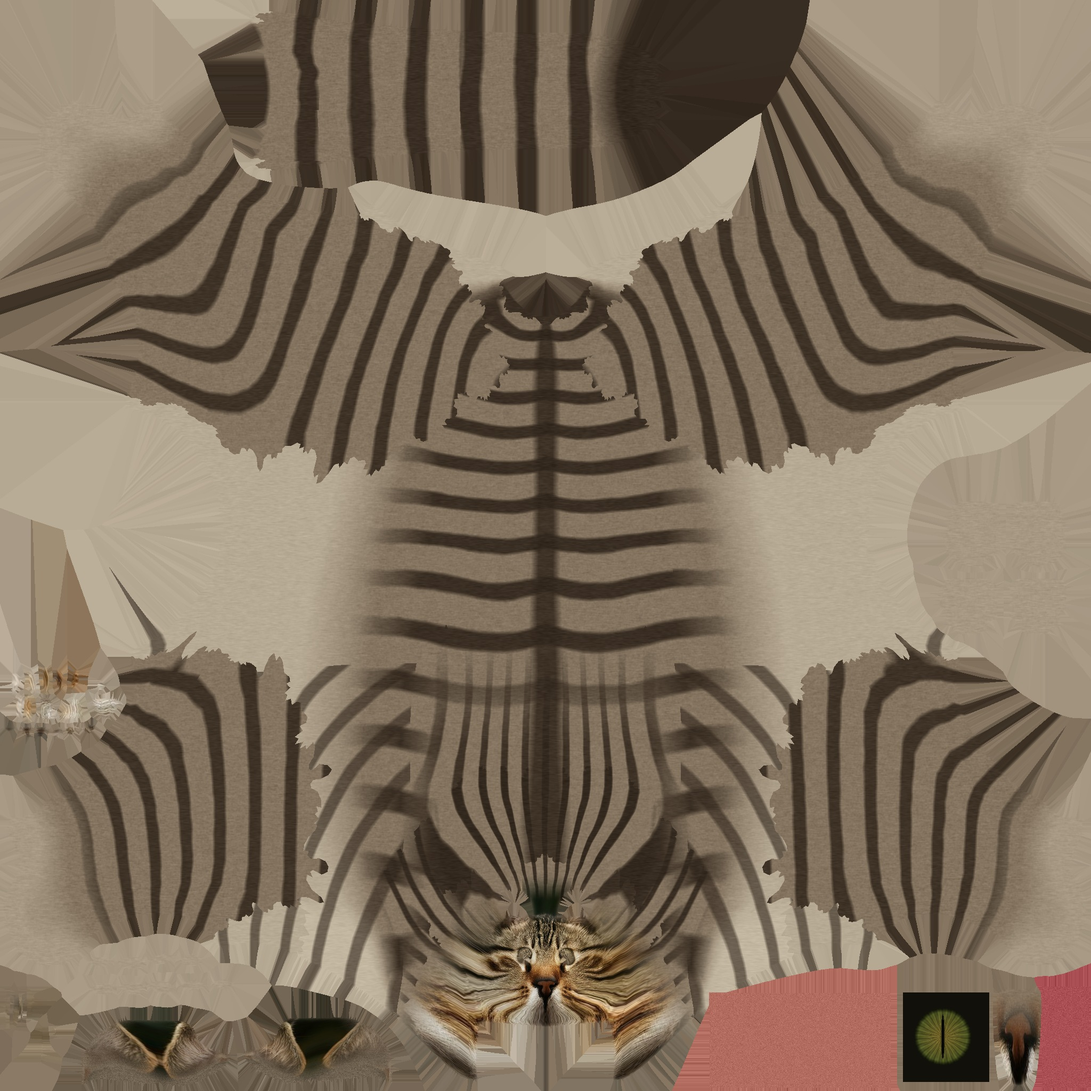
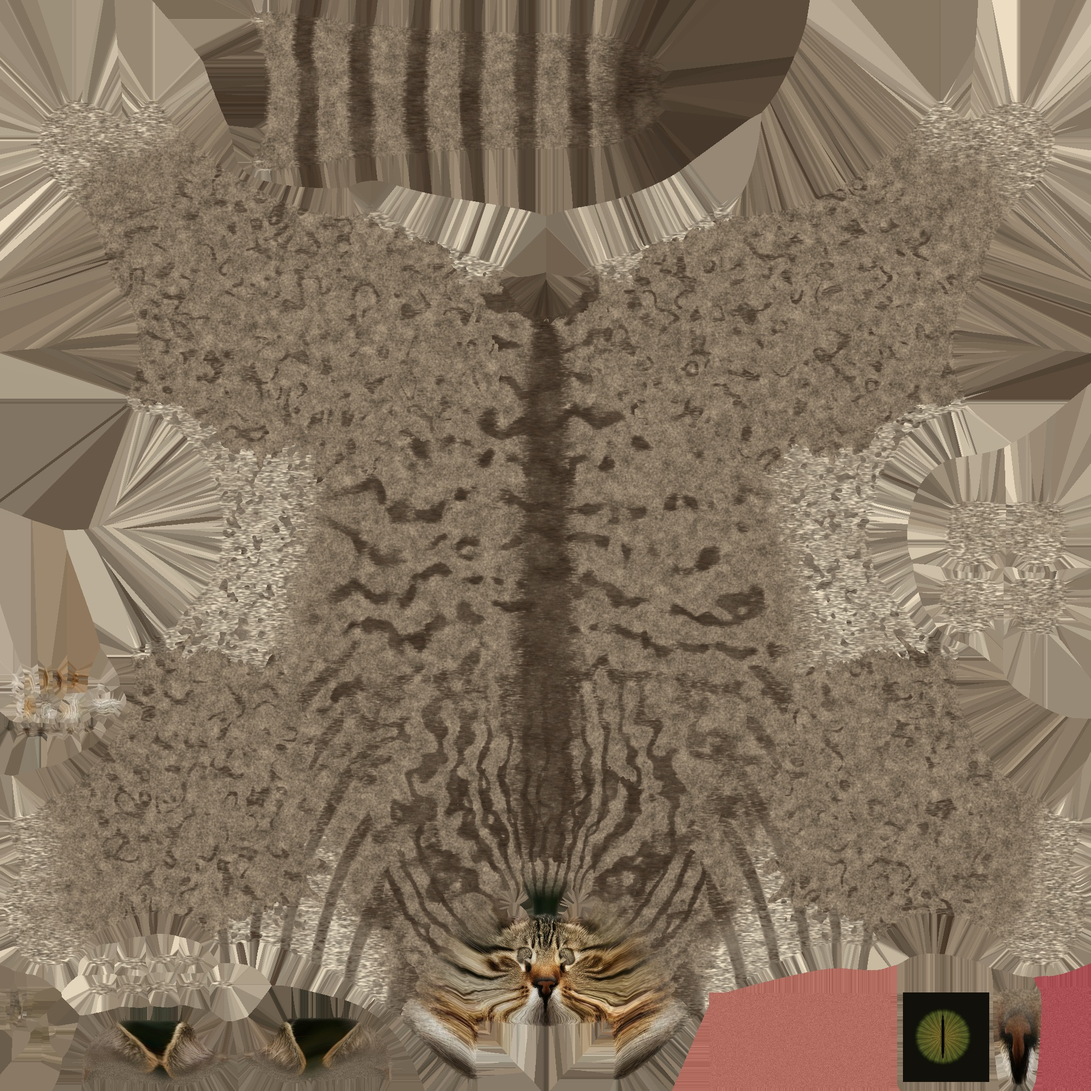
Zarek: pelaje del gato natural: rayas con bordes suaves y deshilachados, cortadas a trozos y de fuerza variable, con pelos de punta clara; cada pelo toma color de un punto cercano para cruzar los bordes; eje del cuerpo sacado de la superficie (sin franja clara en el lomo)
Claude-Session: https://claude.ai/code/session_0193HurHkKYbqWL1bM9cCvAp

diff --git a/engine/tools/gato/pintar/pintar_gato.py b/engine/tools/gato/pintar/pintar_gato.py
@@ -8,7 +8,8 @@ L=np.load('/tmp/ovg/cara3_L.npy'); ML=np.load('/tmp/ovg/cara3_M.npy')>0
 zon=np.load('/tmp/ovg/zonas.npy'); ojo,nariz,lengua,oreja=zon
 rng=np.random.default_rng(11)
 def suave(v,a,b): return np.clip((v-a)/(b-a),0,1)
-def ruido(s,amp): return ndimage.gaussian_filter(rng.normal(0,1,(N,N)),s)*amp
+def ruido(s,amp):
+    r=ndimage.gaussian_filter(rng.normal(0,1,(N,N)),s); return r/(r.std()+1e-9)*amp
 cat=np.full((N,N),-1)
 grupo={}
 for i,n in enumerate(nombres):
@@ -21,32 +22,54 @@ valido=B>=0
 for i,g in grupo.items(): cat[B==i]=g
 x,y,z=P[...,0],P[...,1],P[...,2]
 # colores del gato de la foto
-oscuro=np.array([50,39,29.]); medio=np.array([132,116,96.]); claro=np.array([200,188,166.])
+oscuro=np.array([64,50,37.]); medio=np.array([132,116,96.]); claro=np.array([200,188,166.])
 n1=ruido(1.0,10)+ruido(5,8)
 col=medio[None,None,:]+n1[...,None]*np.array([1,0.9,0.8])
+# bordes rotos y vetas del pelo: el borde de cada raya se deshilacha en mechones y su fuerza varía
+def nrm(a): return a/(a.std()+1e-9)
+vet_f=nrm(ndimage.gaussian_filter(rng.normal(0,1,(N,N)),(0.7,2.5)))
+vet_g=nrm(ndimage.gaussian_filter(rng.normal(0,1,(N,N)),(1.5,5.0)))
+var_l=nrm(ndimage.gaussian_filter(rng.normal(0,1,(N,N)),18))
 def mezcla(mf,c):
     global col
-    a=np.clip(mf,0,1)[...,None]; col=col*(1-a)+np.array(c)[None,None,:]*a
+    a=np.clip(mf,0,1)
+    a=np.clip(a+0.25*vet_f*a*(1-a)*4+0.08*vet_g*a,0,1)                # deshilachado en el borde
+    a=a*np.clip(0.85+0.12*var_l,0.55,1.0)                              # unas rayas más marcadas que otras
+    tic=np.clip(0.95+0.12*vet_f,0.7,1.2)[...,None]                    # pelos con la punta clara dentro de la raya
+    destino=np.array(c)[None,None,:]*tic
+    col=col*(1-a[...,None])+destino*a[...,None]
 # --- tronco: rayas verticales finas (atigrado «mackerel») desde una línea oscura en el lomo
 esp=[H[n][0] for n in ['tail_01_08','Spine_base_04','spine_03_05','spine_02_06','spine_01_07','spine_04_021','spine_05_022','neck_023']]
 esp=np.array(sorted(esp,key=lambda p:-p[1]))
-zs=np.interp(-y, -esp[:,1], esp[:,2]); xs=np.interp(-y,-esp[:,1],esp[:,0])
+# eje del cuerpo sacado de la propia superficie: centro entre lo más alto y lo más bajo de cada rebanada
+tor0=(cat==0)|(cat==4)
+yv=y[tor0]; zv=z[tor0]; xv=x[tor0]
+bins=np.linspace(yv.min(),yv.max(),60); cy=[];cz=[];cx=[]
+for i in range(len(bins)-1):
+    m=(yv>=bins[i])&(yv<bins[i+1])
+    if m.sum()>50:
+        cy.append((bins[i]+bins[i+1])/2); cz.append((np.percentile(zv[m],98)+np.percentile(zv[m],2))/2); cx.append(np.median(xv[m]))
+cy=np.array(cy); o=np.argsort(cy)
+zs=np.interp(y, cy[o], np.array(cz)[o]); xs=np.interp(y, cy[o], np.array(cx)[o])
 dx=x-xs; dz=z-zs; th=np.degrees(np.arctan2(np.abs(dx),dz))
 tronco=(cat==0)|(cat==4)
 yc=H['neck_023'][0][1]
 cerca_cuello=(1-suave(y-yc,0.02,0.07))*(1-suave(th,70,95))   # lomo junto al cuello: rayas a lo largo, no de través
-fase=y/0.028+0.18*np.sin(np.radians(th)*2.2)+ruido(14,0.35)
+fase=y/0.03+0.25*np.sin(np.radians(th)*2.0+y*40)+ruido(14,0.12)+ruido(40,0.2)
 raya=np.cos(2*np.pi*fase)*0.5+0.5
-mezcla(tronco*suave(raya,0.6,0.82)*(1-suave(th,95,125))*(1-cerca_cuello)*0.9,oscuro)
+# las rayas se cortan a trozos (como en los atigrados de verdad)
+raya=raya*np.clip(0.85+ruido(9,0.35),0,1)
+mezcla(tronco*suave(raya,0.52,0.86)*(1-suave(th,95,125))*(1-cerca_cuello)*0.9,oscuro)
 largas=np.cos((dx+ruido(10,0.0015))/0.0045*np.pi)*0.5+0.5
-mezcla(tronco*cerca_cuello*suave(largas,0.66,0.86)*0.85,oscuro)
+mezcla(tronco*cerca_cuello*suave(largas,0.6,0.9)*0.85,oscuro)
 mezcla(tronco*(1-suave(th,8,16))*0.85,oscuro)                       # línea del lomo
 mezcla(tronco*suave(th,115,140)*0.75,claro)                          # vientre claro
 mezcla(tronco*suave(th,120,140)*suave(ruido(4,1),0.7,1.1)*0.5,oscuro)   # manchitas en la tripa
 # --- patas: bandas horizontales, más claras por dentro y en las manos
 patas=cat==1
-banda=np.cos(2*np.pi*(z/0.024+ruido(10,0.25)))*0.5+0.5
-mezcla(patas*suave(banda,0.62,0.84)*suave(z,0.035,0.06)*0.85,oscuro)
+banda=np.cos(2*np.pi*(z/0.034+ruido(10,0.35)+0.3*np.sin(x*90)))*0.5+0.5
+banda=banda*np.clip(0.8+ruido(8,0.4),0,1)
+mezcla(patas*suave(banda,0.6,0.9)*suave(z,0.04,0.07)*0.6,oscuro)
 mezcla(patas*(1-suave(z,0.015,0.035))*0.5,claro)
 # --- cola: anillos y punta oscura
 cola=cat==2
@@ -58,13 +81,13 @@ for (a,b) in tb:
     t=np.clip(((P-a)@seg)/l**2,0,1); d=np.linalg.norm(P-(a+t[...,None]*seg),axis=-1)
     m=d<mejor; mejor[m]=d[m]; largo[m]=acum+t[m]*l; acum+=l
 anillo=np.cos(2*np.pi*largo/0.035)*0.5+0.5
-mezcla(cola*suave(anillo,0.55,0.8)*0.9,oscuro)
+mezcla(cola*suave(anillo,0.48,0.84)*0.9,oscuro)
 mezcla(cola*suave(largo,acum-0.04,acum-0.02)*0.95,oscuro)
 # --- cabeza (lados y detrás), continuando la cara de la foto
 cab=((cat==3)|(cat==4))&ML
 lx,ly,lz=L[...,0],L[...,1],L[...,2]; ax=np.abs(lx)
 coron=np.cos((lx+ruido(10,0.0015))/0.0045*np.pi)*0.5+0.5
-mezcla(cab*suave(ly,-0.005,0.01)*suave(-lz,0.0,0.02)*suave(coron,0.66,0.86)*0.9,oscuro)   # rayas de la frente hacia la nuca
+mezcla(cab*suave(ly,-0.005,0.01)*suave(-lz,0.0,0.02)*suave(coron,0.6,0.9)*0.9,oscuro)   # rayas de la frente hacia la nuca
 ln=np.abs(np.mod(ly+0.3*(ax-0.02)+ruido(10,0.0008),0.011)-0.0055)
 mezcla(cab*suave(ax,0.026,0.034)*suave(ly,-0.032,-0.024)*(1-suave(ly,0.004,0.01))*(1-suave(ln,0.0011,0.0022))*0.9,oscuro)  # líneas de la mejilla
 mezcla(cab*suave(-ly,0.03,0.04)*(1-suave(ax,0.02,0.03))*0.7,claro)     # garganta clara
